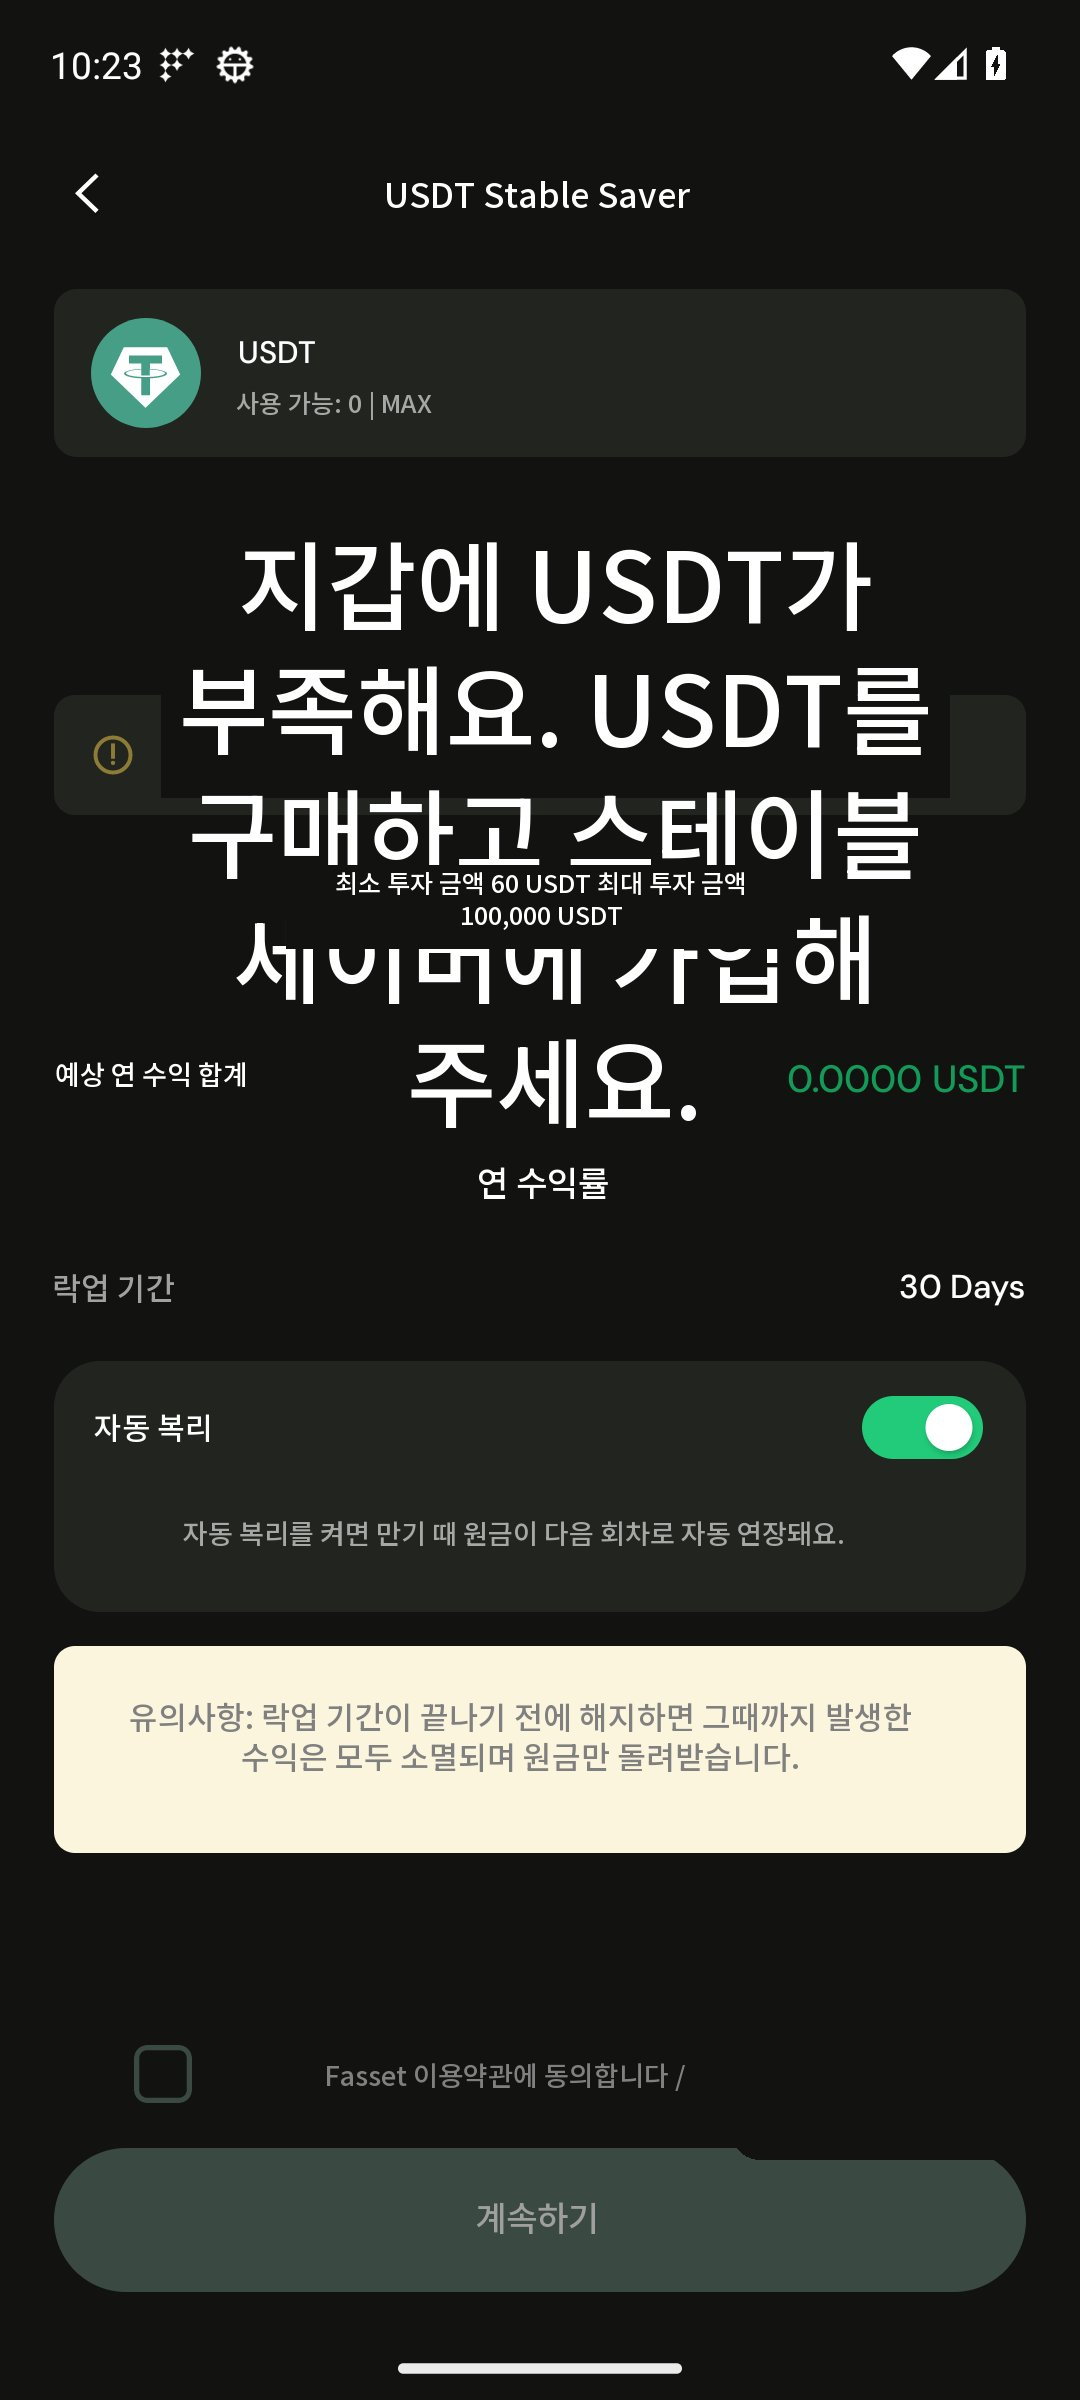
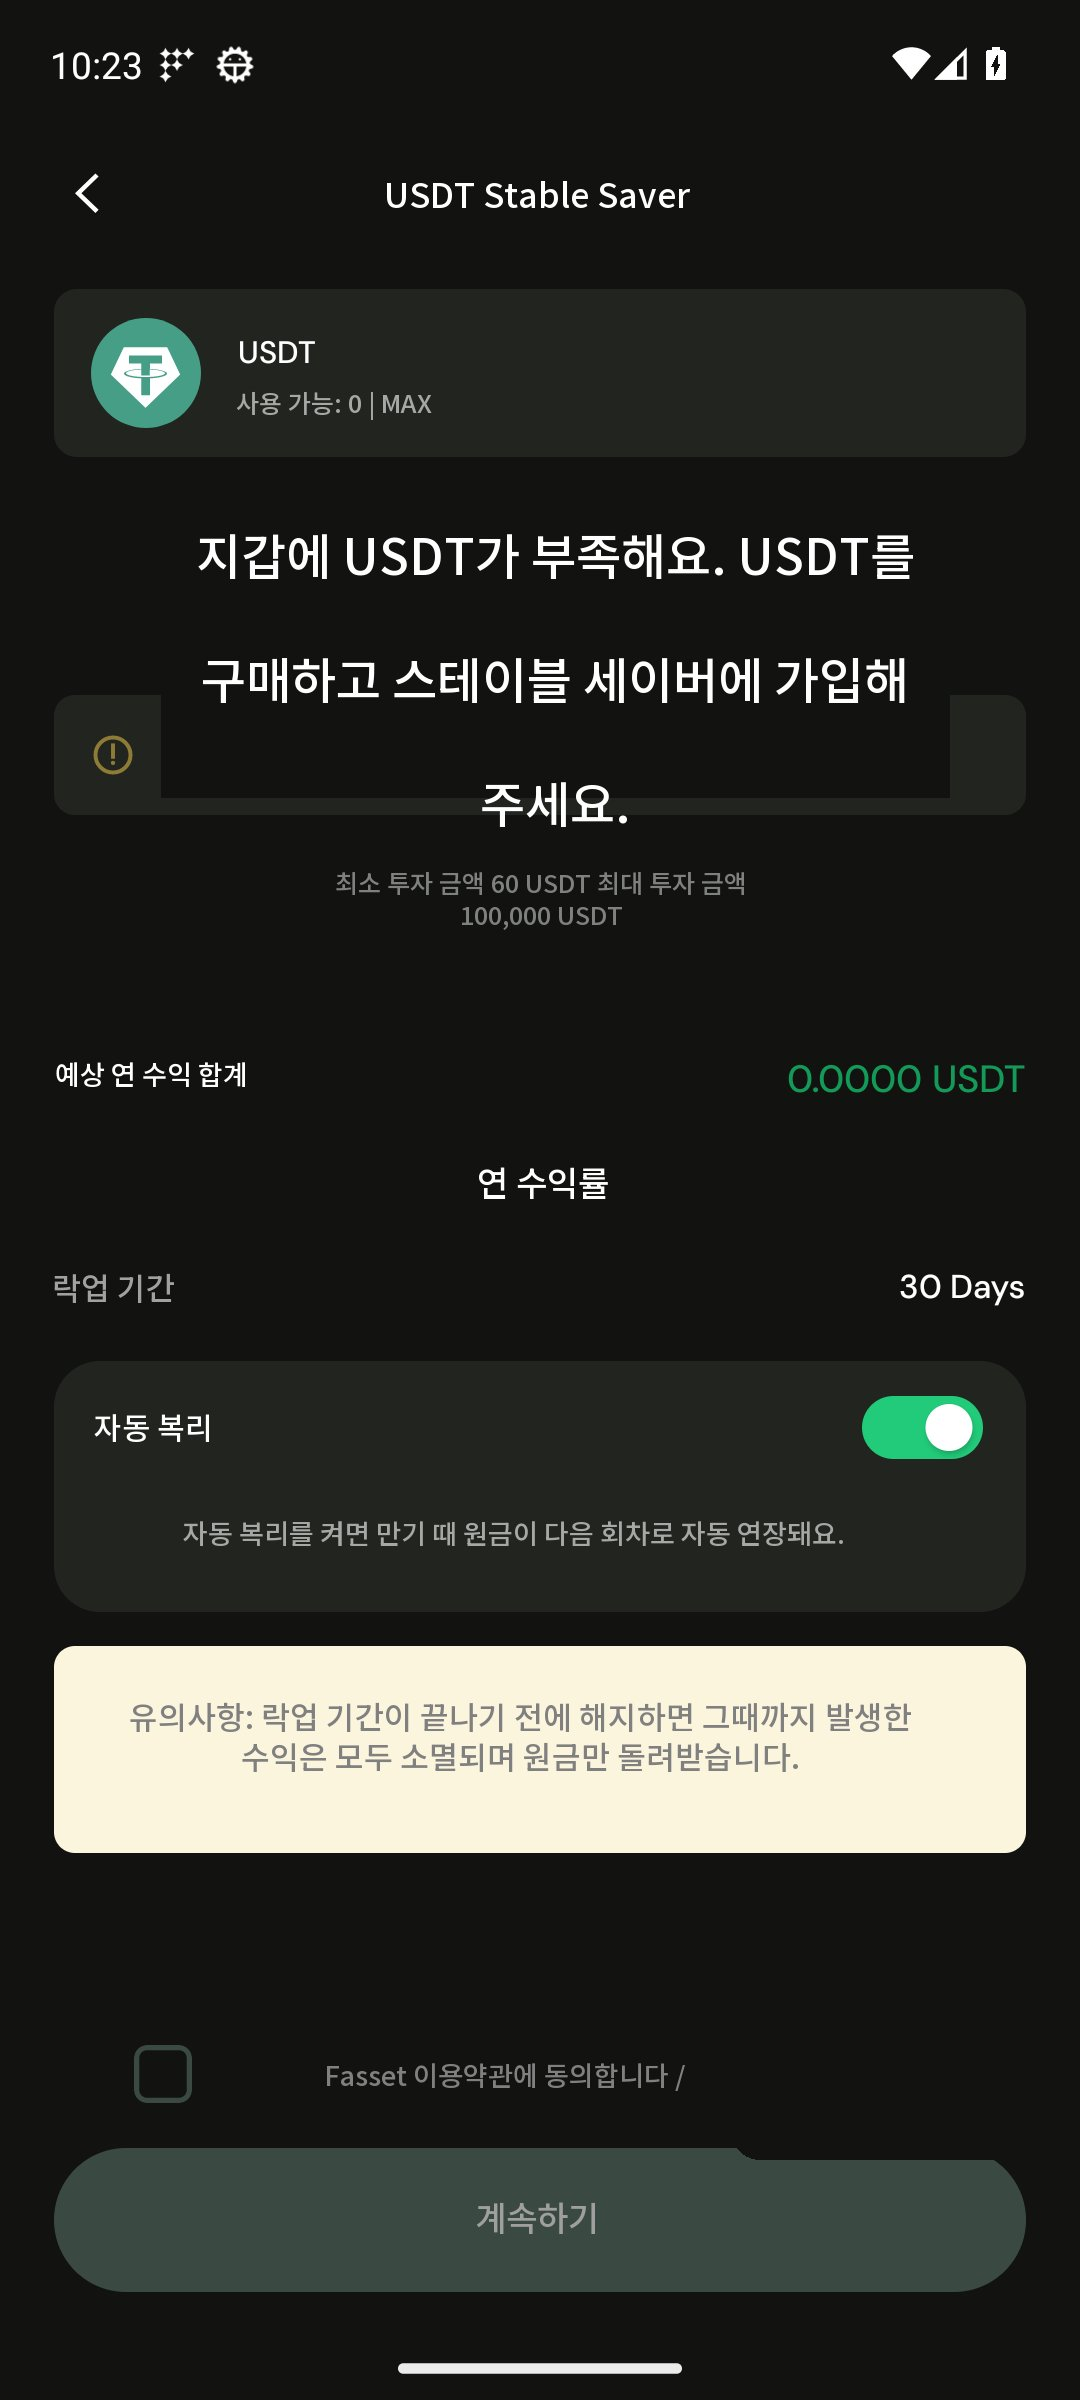
Nested controls centre their text; empty placeholder values drop out; multi-line font cap

Changed region(s): [[0.1528, 0.2188, 0.8556, 0.4688], [0.6722, 0.4062, 0.7333, 0.4375]]

diff --git a/index.html b/index.html
@@ -212,7 +212,7 @@ button{cursor:pointer;background:none;border:0;padding:0}
   const PH_RE=/\{\{\s*(\w+)\s*\}\}/g;
   const SAMPLE={amount:'1,250.00',currency:'USD',name:'지민',count:'3',coin:'BTC',percent:'1.00',time:'30',days:'7',balance:'6,800.60',limit:'2,500',code:'AB12CD',value:'jimin@email.com',otpType:'SMS',spend:'BTC',receive:'USDT',from:'BTC',to:'USDT',min:'10',max:'5,000',type:'USDT',symbol:'BTC',timer:'10',suffix:'···4821',channelName:'GoPay',current:'2',total:'5',deviceName:'iPhone 15',transactionType:'P2P',dynamicLink:'fasset.link/abc',appLink:'fasset.com/app',value1:'45',value2:'AED',value3:'USD',asset:'BTC'};
   const fmtPh=s=>esc(s).replace(PH_RE,(m,n)=>`<span class="ph">{{${n}}}</span>`);
-  const withSample=(s,vals)=>s.replace(PH_RE,(m,n)=>{const v=vals&&vals[n]; if(v) return (/^[a-z]{2,5}$/.test(v)?v.toUpperCase():v); return SAMPLE[n]??n;});
+  const withSample=(s,vals)=>s.replace(PH_RE,(m,n)=>{const v=vals&&vals[n]; if(v) return (/^[a-z]{2,5}$/.test(v)?v.toUpperCase():v); if(vals&&n in vals) return ''; return SAMPLE[n]??n;}).replace(/\s{2,}/g,' ').trim();
 
   const J=u=>fetch(u).then(r=>r.ok?r.json():null).catch(()=>null);
   const [copyA,scrA,ocrA,codeA,copyF,scrF,ocrF]=await Promise.all([J('data/copy.json'),J('data/screens.json'),J('data/ocr.json'),J('data/code-screens.json'),J('data/figma/copy.json'),J('data/figma/screens.json'),J('data/figma/boxes.json')]);
@@ -285,7 +285,7 @@ button{cursor:pointer;background:none;border:0;padding:0}
     // ocrLine is the exact selected text span. Legacy `text` can still hold
     // adjacent icons/values or an uninstantiated {{placeholder}} template.
     const source=m.ocrLine||withSample(m.text||'xxxx',m.vals);
-    return (m.lines||1)===1 ? Math.min(m.lh*0.9, 2.1*m.w/Math.max(source.length,4)) : m.lh*0.9;
+    return (m.lines||1)===1 ? Math.min(m.lh*0.9, 2.1*m.w/Math.max(source.length,4)) : Math.min(m.lh*0.9, 2.1*m.w*(m.lines||1)/Math.max(source.length,8));
   }
 
   /* ---- per screen model ---- */
